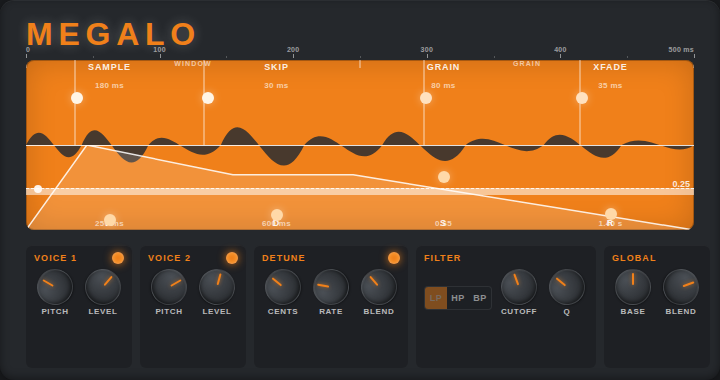
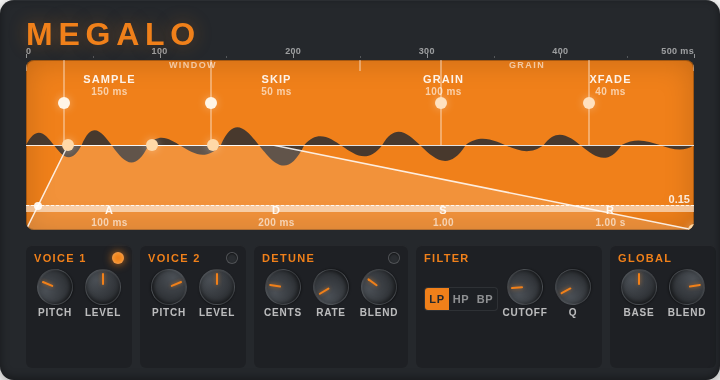
modgui: regenerate screenshot/thumbnail, fix duplicate handle-label CSS rules
The trailing .megalo-handle-label rules (top: 2px / bottom: 2px)
overrode the intended offsets, making the top labels collide with the
WINDOW/GRAIN brackets and the ADSR labels overlap their readouts.
Captures re-rendered from the live modgui at default port values.

https://claude.ai/code/session_013gexZg1ei2CTh27ZZeiAWh

diff --git a/megalo.lv2/modgui/stylesheet-megalo.css b/megalo.lv2/modgui/stylesheet-megalo.css
@@ -447,13 +447,9 @@
     white-space: nowrap;
 }
 
-.megalo-panel{{{cns}}} .megalo-handles-top .megalo-handle-label {
-    top: 2px;
-}
-
-.megalo-panel{{{cns}}} .megalo-handles-bottom .megalo-handle-label {
-    bottom: 2px;
-}
+/* Vertical offsets for these labels live in the handle-row section
+   above (top: 13px / bottom: 14px) so they clear the brackets and
+   the value readouts. */
 
 /* ── Bottom controls row ────────────────────────────────── */
 .megalo-panel{{{cns}}} .megalo-controls {